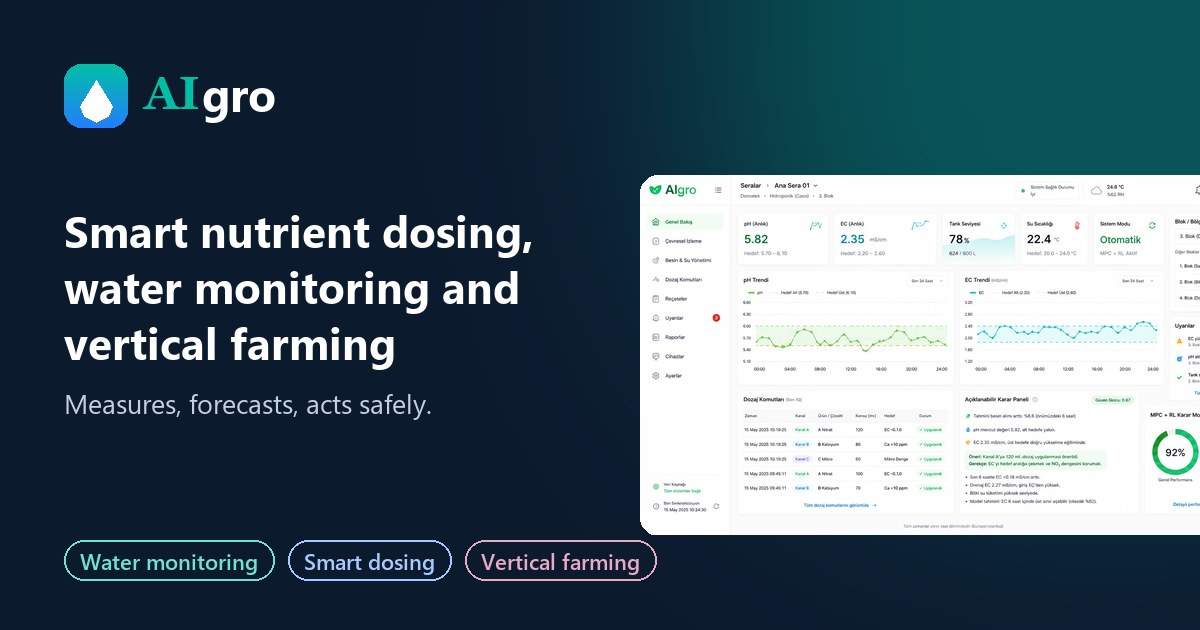
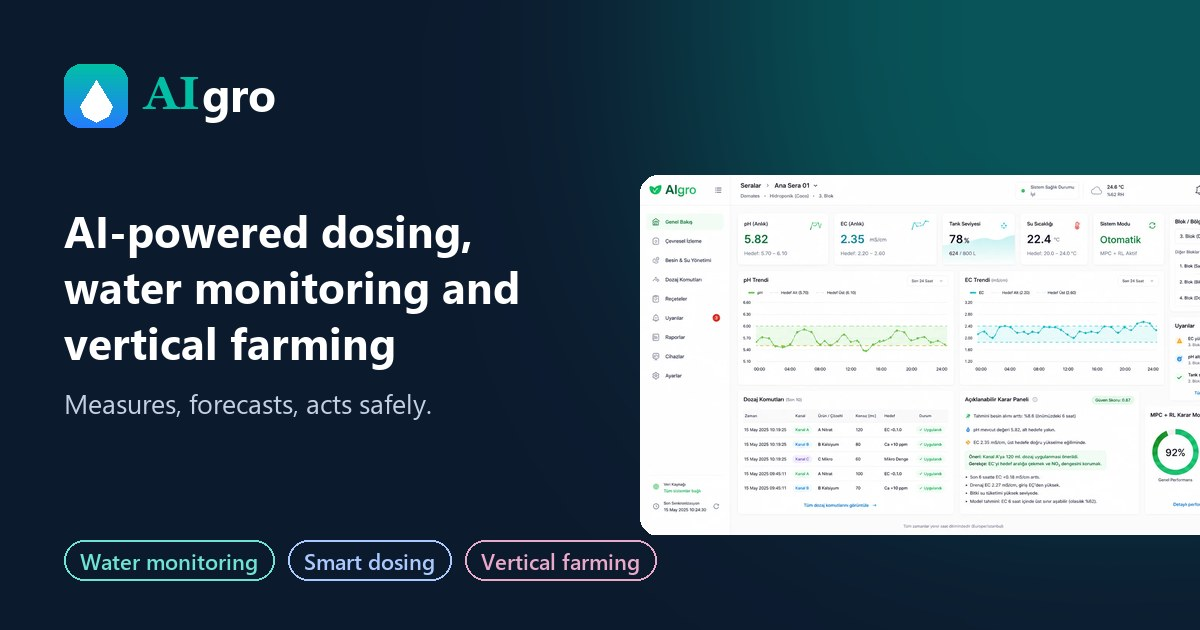
Yapay zekâ ilk ekranda; YZ teknik ayrıntıları sadeleştirildi

Changed region(s): [[0.0308, 0.3317, 0.4625, 0.4222]]

diff --git a/index.html b/index.html
@@ -3,7 +3,7 @@
 <head>
   <meta charset="utf-8">
   <meta name="viewport" content="width=device-width, initial-scale=1">
-  <title>AIgro | Topraksız Tarımda Akıllı Dozajlama, Su Takibi ve Dikey Tarım</title>
+  <title>AIgro | Yapay Zekâ ile Topraksız Tarımda Akıllı Dozajlama, Su Takibi ve Dikey Tarım</title>
   <meta name="description" content="AIgro çözümleri: topraksız serada pH ve EC'yi öngören akıllı besin dozajlama, su takip sistemi ve kafe-restoranlar için dikey tarım modülü.">
   <link rel="canonical" href="https://tarikyil.github.io/aigro-web/">
   <link rel="alternate" hreflang="tr" href="https://tarikyil.github.io/aigro-web/">
@@ -13,7 +13,7 @@
   <meta property="og:type" content="website">
   <meta property="og:locale" content="tr_TR">
   <meta property="og:site_name" content="AIgro">
-  <meta property="og:title" content="AIgro | Topraksız Tarımda Akıllı Dozajlama, Su Takibi ve Dikey Tarım">
+  <meta property="og:title" content="AIgro | Yapay Zekâ ile Topraksız Tarımda Akıllı Dozajlama, Su Takibi ve Dikey Tarım">
   <meta property="og:description" content="AIgro çözümleri: topraksız serada pH ve EC'yi öngören akıllı besin dozajlama, su takip sistemi ve kafe-restoranlar için dikey tarım modülü.">
   <meta property="og:url" content="https://tarikyil.github.io/aigro-web/">
   <meta property="og:image" content="https://tarikyil.github.io/aigro-web/assets/img/og-cover.jpg">
@@ -129,9 +129,9 @@
     </div>
     <div class="container hero-inner">
       <div class="hero-copy">
-        <p class="eyebrow">Topraksız tarım için akıllı altyapı</p>
-        <h1 id="hero-title">Her damla, her doz <em>veriyle</em> yönetilir.</h1>
-        <p class="lead"><span class="aigro"><span class="ai">AI</span>gro</span>; besin dozajlama, su takibi ve dikey tarım sistemlerini kendi geliştirdiğimiz kontrol kartı ve bulut panelinde birleştirir. Ölçer, öngörür, güvenle uygular.</p>
+        <p class="eyebrow">Yapay zekâ destekli topraksız tarım</p>
+        <h1 id="hero-title">Her damla, her doz <em>yapay zekâyla</em> yönetilir.</h1>
+        <p class="lead"><span class="aigro"><span class="ai">AI</span>gro</span>; besin dozajlama, su takibi ve dikey tarım sistemlerini yapay zekâ ile tek altyapıda yönetir. Ölçer, öngörür, güvenle uygular.</p>
         <div class="hero-actions">
           <a class="btn btn-primary" href="#cozumler">Çözümleri keşfedin <svg class="icon icon-arrow" aria-hidden="true" focusable="false"><use href="#i-arrow"/></svg></a>
           <a class="btn btn-ghost-light" href="iletisim.html">Görüşme planlayın</a>
@@ -141,8 +141,8 @@
     <div class="hero-proof">
       <div class="container">
         <ul>
+          <li><svg class="icon" aria-hidden="true" focusable="false"><use href="#i-spark"/></svg><div><strong>Yapay zekâ ile dozaj</strong><span>Patent başvurusu yapıldı</span></div></li>
           <li><svg class="icon" aria-hidden="true" focusable="false"><use href="#i-layers"/></svg><div><strong>Uçtan uca sistem</strong><span>Sensörden panele tek ekip</span></div></li>
-          <li><svg class="icon" aria-hidden="true" focusable="false"><use href="#i-spark"/></svg><div><strong>Yapay zekâ + kontrol</strong><span>Patent başvurusu yapıldı</span></div></li>
           <li><svg class="icon" aria-hidden="true" focusable="false"><use href="#i-flask"/></svg><div><strong>3 kanallı dozaj</strong><span>Besin A · Besin B · pH</span></div></li>
           <li><svg class="icon" aria-hidden="true" focusable="false"><use href="#i-signal"/></svg><div><strong>Wi-Fi veya 4G</strong><span>İnternetsiz arazide SIM ile</span></div></li>
         </ul>
@@ -156,18 +156,18 @@
       <div class="reveal">
         <p class="eyebrow">Teknoloji</p>
         <h2 id="tech-title">Yapay zekâ karar verir, kontrol katmanı güvenle uygular.</h2>
-        <p class="lead"><span class="aigro"><span class="ai">AI</span>gro</span>'nun çekirdeğinde iki katman birlikte çalışır: pekiştirmeli öğrenme en uygun dozu belirler, model öngörülü kontrol bu kararı güvenlik sınırları içinde optimize ederek uygular.</p>
+        <p class="lead"><span class="aigro"><span class="ai">AI</span>gro</span>'nun çekirdeğinde yapay zekâ var: sensör verisinden en uygun dozu belirler, kontrol kartı bu kararı güvenlik sınırları içinde uygular.</p>
         <ol class="tech-chain" aria-label="Karar zinciri">
           <li><svg class="icon" aria-hidden="true" focusable="false"><use href="#i-target"/></svg><span>Sensör verisi</span></li>
           <li><svg class="icon" aria-hidden="true" focusable="false"><use href="#i-spark"/></svg><span>Yapay zekâ kararı</span></li>
-          <li><svg class="icon" aria-hidden="true" focusable="false"><use href="#i-shield"/></svg><span>Öngörülü kontrol</span></li>
+          <li><svg class="icon" aria-hidden="true" focusable="false"><use href="#i-shield"/></svg><span>Güvenlik kontrolü</span></li>
           <li><svg class="icon" aria-hidden="true" focusable="false"><use href="#i-pump"/></svg><span>Güvenli doz</span></li>
         </ol>
       </div>
       <ul class="ip-list reveal reveal-d1" aria-label="Fikri mülkiyet">
         <li class="ip-card">
           <span class="ip-tag"><svg class="icon" aria-hidden="true" focusable="false"><use href="#i-doc"/></svg> Patent başvurusu</span>
-          <strong>Yapay zekâ ve model öngörülü kontrol temelli otomatik dozajlama</strong>
+          <strong>Yapay zekâ destekli otomatik dozajlama</strong>
           <p>Topraksız tarım sistemleri için</p>
         </li>
         <li class="ip-card">

diff --git a/en/index.html b/en/index.html
@@ -3,7 +3,7 @@
 <head>
   <meta charset="utf-8">
   <meta name="viewport" content="width=device-width, initial-scale=1">
-  <title>AIgro | Smart Nutrient Dosing, Water Monitoring and Vertical Farming for Soilless Agriculture</title>
+  <title>AIgro | AI-Powered Smart Nutrient Dosing, Water Monitoring and Vertical Farming for Soilless Agriculture</title>
   <meta name="description" content="AIgro solutions: smart nutrient dosing that forecasts pH and EC in soilless greenhouses, a water monitoring system and a vertical farming module for cafés and restaurants.">
   <link rel="canonical" href="https://tarikyil.github.io/aigro-web/en/">
   <link rel="alternate" hreflang="tr" href="https://tarikyil.github.io/aigro-web/">
@@ -13,7 +13,7 @@
   <meta property="og:type" content="website">
   <meta property="og:locale" content="en_GB">
   <meta property="og:site_name" content="AIgro">
-  <meta property="og:title" content="AIgro | Smart Nutrient Dosing, Water Monitoring and Vertical Farming for Soilless Agriculture">
+  <meta property="og:title" content="AIgro | AI-Powered Smart Nutrient Dosing, Water Monitoring and Vertical Farming for Soilless Agriculture">
   <meta property="og:description" content="AIgro solutions: smart nutrient dosing that forecasts pH and EC in soilless greenhouses, a water monitoring system and a vertical farming module for cafés and restaurants.">
   <meta property="og:url" content="https://tarikyil.github.io/aigro-web/en/">
   <meta property="og:image" content="https://tarikyil.github.io/aigro-web/assets/img/og-cover-en.jpg">
@@ -129,9 +129,9 @@
     </div>
     <div class="container hero-inner">
       <div class="hero-copy">
-        <p class="eyebrow">Smart infrastructure for soilless farming</p>
-        <h1 id="hero-title">Every drop, every dose, <em>driven by data.</em></h1>
-        <p class="lead"><span class="aigro"><span class="ai">AI</span>gro</span> brings nutrient dosing, water monitoring and vertical farming together on our own controller board and cloud dashboard. It measures, forecasts and acts safely.</p>
+        <p class="eyebrow">AI-powered soilless farming</p>
+        <h1 id="hero-title">Every drop, every dose, <em>driven by AI.</em></h1>
+        <p class="lead"><span class="aigro"><span class="ai">AI</span>gro</span> uses AI to run nutrient dosing, water monitoring and vertical farming on one platform. It measures, forecasts and acts safely.</p>
         <div class="hero-actions">
           <a class="btn btn-primary" href="#cozumler">Explore solutions <svg class="icon icon-arrow" aria-hidden="true" focusable="false"><use href="#i-arrow"/></svg></a>
           <a class="btn btn-ghost-light" href="contact.html">Book a meeting</a>
@@ -141,8 +141,8 @@
     <div class="hero-proof">
       <div class="container">
         <ul>
+          <li><svg class="icon" aria-hidden="true" focusable="false"><use href="#i-spark"/></svg><div><strong>AI-driven dosing</strong><span>Patent application filed</span></div></li>
           <li><svg class="icon" aria-hidden="true" focusable="false"><use href="#i-layers"/></svg><div><strong>End-to-end system</strong><span>One team, sensor to dashboard</span></div></li>
-          <li><svg class="icon" aria-hidden="true" focusable="false"><use href="#i-spark"/></svg><div><strong>AI + control</strong><span>Patent application filed</span></div></li>
           <li><svg class="icon" aria-hidden="true" focusable="false"><use href="#i-flask"/></svg><div><strong>3-channel dosing</strong><span>Nutrient A · Nutrient B · pH</span></div></li>
           <li><svg class="icon" aria-hidden="true" focusable="false"><use href="#i-signal"/></svg><div><strong>Wi-Fi or 4G</strong><span>SIM data where there is no internet</span></div></li>
         </ul>
@@ -156,18 +156,18 @@
       <div class="reveal">
         <p class="eyebrow">Technology</p>
         <h2 id="tech-title">AI decides, the control layer applies it safely.</h2>
-        <p class="lead">Two layers work together at the core of <span class="aigro"><span class="ai">AI</span>gro</span>: reinforcement learning determines the optimal dose, and model predictive control optimises and applies that decision within safety limits.</p>
+        <p class="lead">AI sits at the core of <span class="aigro"><span class="ai">AI</span>gro</span>: it determines the optimal dose from sensor data, and the controller board applies that decision within safety limits.</p>
         <ol class="tech-chain" aria-label="Decision chain">
           <li><svg class="icon" aria-hidden="true" focusable="false"><use href="#i-target"/></svg><span>Sensor data</span></li>
           <li><svg class="icon" aria-hidden="true" focusable="false"><use href="#i-spark"/></svg><span>AI decision</span></li>
-          <li><svg class="icon" aria-hidden="true" focusable="false"><use href="#i-shield"/></svg><span>Predictive control</span></li>
+          <li><svg class="icon" aria-hidden="true" focusable="false"><use href="#i-shield"/></svg><span>Safety check</span></li>
           <li><svg class="icon" aria-hidden="true" focusable="false"><use href="#i-pump"/></svg><span>Safe dose</span></li>
         </ol>
       </div>
       <ul class="ip-list reveal reveal-d1" aria-label="Intellectual property">
         <li class="ip-card">
           <span class="ip-tag"><svg class="icon" aria-hidden="true" focusable="false"><use href="#i-doc"/></svg> Patent application</span>
-          <strong>Automatic dosing based on AI and model predictive control</strong>
+          <strong>AI-powered automatic dosing</strong>
           <p>For soilless farming systems</p>
         </li>
         <li class="ip-card">

diff --git a/src/pages/tr/index.html b/src/pages/tr/index.html
@@ -1,4 +1,4 @@
-title: AIgro | Topraksız Tarımda Akıllı Dozajlama, Su Takibi ve Dikey Tarım
+title: AIgro | Yapay Zekâ ile Topraksız Tarımda Akıllı Dozajlama, Su Takibi ve Dikey Tarım
 description: AIgro çözümleri: topraksız serada pH ve EC'yi öngören akıllı besin dozajlama, su takip sistemi ve kafe-restoranlar için dikey tarım modülü.
 header: overlay
 active: index
@@ -13,9 +13,9 @@ og_image: assets/img/og-cover.jpg
     </div>
     <div class="container hero-inner">
       <div class="hero-copy">
-        <p class="eyebrow">Topraksız tarım için akıllı altyapı</p>
-        <h1 id="hero-title">Her damla, her doz <em>veriyle</em> yönetilir.</h1>
-        <p class="lead">AIgro; besin dozajlama, su takibi ve dikey tarım sistemlerini kendi geliştirdiğimiz kontrol kartı ve bulut panelinde birleştirir. Ölçer, öngörür, güvenle uygular.</p>
+        <p class="eyebrow">Yapay zekâ destekli topraksız tarım</p>
+        <h1 id="hero-title">Her damla, her doz <em>yapay zekâyla</em> yönetilir.</h1>
+        <p class="lead">AIgro; besin dozajlama, su takibi ve dikey tarım sistemlerini yapay zekâ ile tek altyapıda yönetir. Ölçer, öngörür, güvenle uygular.</p>
         <div class="hero-actions">
           <a class="btn btn-primary" href="#cozumler">Çözümleri keşfedin [[I arrow icon icon-arrow]]</a>
           <a class="btn btn-ghost-light" href="iletisim.html">Görüşme planlayın</a>
@@ -25,8 +25,8 @@ og_image: assets/img/og-cover.jpg
     <div class="hero-proof">
       <div class="container">
         <ul>
+          <li>[[I spark]]<div><strong>Yapay zekâ ile dozaj</strong><span>Patent başvurusu yapıldı</span></div></li>
           <li>[[I layers]]<div><strong>Uçtan uca sistem</strong><span>Sensörden panele tek ekip</span></div></li>
-          <li>[[I spark]]<div><strong>Yapay zekâ + kontrol</strong><span>Patent başvurusu yapıldı</span></div></li>
           <li>[[I flask]]<div><strong>3 kanallı dozaj</strong><span>Besin A · Besin B · pH</span></div></li>
           <li>[[I signal]]<div><strong>Wi-Fi veya 4G</strong><span>İnternetsiz arazide SIM ile</span></div></li>
         </ul>
@@ -40,18 +40,18 @@ og_image: assets/img/og-cover.jpg
       <div class="reveal">
         <p class="eyebrow">Teknoloji</p>
         <h2 id="tech-title">Yapay zekâ karar verir, kontrol katmanı güvenle uygular.</h2>
-        <p class="lead">AIgro'nun çekirdeğinde iki katman birlikte çalışır: pekiştirmeli öğrenme en uygun dozu belirler, model öngörülü kontrol bu kararı güvenlik sınırları içinde optimize ederek uygular.</p>
+        <p class="lead">AIgro'nun çekirdeğinde yapay zekâ var: sensör verisinden en uygun dozu belirler, kontrol kartı bu kararı güvenlik sınırları içinde uygular.</p>
         <ol class="tech-chain" aria-label="Karar zinciri">
           <li>[[I target]]<span>Sensör verisi</span></li>
           <li>[[I spark]]<span>Yapay zekâ kararı</span></li>
-          <li>[[I shield]]<span>Öngörülü kontrol</span></li>
+          <li>[[I shield]]<span>Güvenlik kontrolü</span></li>
           <li>[[I pump]]<span>Güvenli doz</span></li>
         </ol>
       </div>
       <ul class="ip-list reveal reveal-d1" aria-label="Fikri mülkiyet">
         <li class="ip-card">
           <span class="ip-tag">[[I doc]] Patent başvurusu</span>
-          <strong>Yapay zekâ ve model öngörülü kontrol temelli otomatik dozajlama</strong>
+          <strong>Yapay zekâ destekli otomatik dozajlama</strong>
           <p>Topraksız tarım sistemleri için</p>
         </li>
         <li class="ip-card">

diff --git a/src/pages/en/index.html b/src/pages/en/index.html
@@ -1,4 +1,4 @@
-title: AIgro | Smart Nutrient Dosing, Water Monitoring and Vertical Farming for Soilless Agriculture
+title: AIgro | AI-Powered Smart Nutrient Dosing, Water Monitoring and Vertical Farming for Soilless Agriculture
 description: AIgro solutions: smart nutrient dosing that forecasts pH and EC in soilless greenhouses, a water monitoring system and a vertical farming module for cafés and restaurants.
 header: overlay
 og_image: assets/img/og-cover-en.jpg
@@ -13,9 +13,9 @@ active: index
     </div>
     <div class="container hero-inner">
       <div class="hero-copy">
-        <p class="eyebrow">Smart infrastructure for soilless farming</p>
-        <h1 id="hero-title">Every drop, every dose, <em>driven by data.</em></h1>
-        <p class="lead">AIgro brings nutrient dosing, water monitoring and vertical farming together on our own controller board and cloud dashboard. It measures, forecasts and acts safely.</p>
+        <p class="eyebrow">AI-powered soilless farming</p>
+        <h1 id="hero-title">Every drop, every dose, <em>driven by AI.</em></h1>
+        <p class="lead">AIgro uses AI to run nutrient dosing, water monitoring and vertical farming on one platform. It measures, forecasts and acts safely.</p>
         <div class="hero-actions">
           <a class="btn btn-primary" href="#cozumler">Explore solutions [[I arrow icon icon-arrow]]</a>
           <a class="btn btn-ghost-light" href="contact.html">Book a meeting</a>
@@ -25,8 +25,8 @@ active: index
     <div class="hero-proof">
       <div class="container">
         <ul>
+          <li>[[I spark]]<div><strong>AI-driven dosing</strong><span>Patent application filed</span></div></li>
           <li>[[I layers]]<div><strong>End-to-end system</strong><span>One team, sensor to dashboard</span></div></li>
-          <li>[[I spark]]<div><strong>AI + control</strong><span>Patent application filed</span></div></li>
           <li>[[I flask]]<div><strong>3-channel dosing</strong><span>Nutrient A · Nutrient B · pH</span></div></li>
           <li>[[I signal]]<div><strong>Wi-Fi or 4G</strong><span>SIM data where there is no internet</span></div></li>
         </ul>
@@ -40,18 +40,18 @@ active: index
       <div class="reveal">
         <p class="eyebrow">Technology</p>
         <h2 id="tech-title">AI decides, the control layer applies it safely.</h2>
-        <p class="lead">Two layers work together at the core of AIgro: reinforcement learning determines the optimal dose, and model predictive control optimises and applies that decision within safety limits.</p>
+        <p class="lead">AI sits at the core of AIgro: it determines the optimal dose from sensor data, and the controller board applies that decision within safety limits.</p>
         <ol class="tech-chain" aria-label="Decision chain">
           <li>[[I target]]<span>Sensor data</span></li>
           <li>[[I spark]]<span>AI decision</span></li>
-          <li>[[I shield]]<span>Predictive control</span></li>
+          <li>[[I shield]]<span>Safety check</span></li>
           <li>[[I pump]]<span>Safe dose</span></li>
         </ol>
       </div>
       <ul class="ip-list reveal reveal-d1" aria-label="Intellectual property">
         <li class="ip-card">
           <span class="ip-tag">[[I doc]] Patent application</span>
-          <strong>Automatic dosing based on AI and model predictive control</strong>
+          <strong>AI-powered automatic dosing</strong>
           <p>For soilless farming systems</p>
         </li>
         <li class="ip-card">

diff --git a/akilli-dozajlama.html b/akilli-dozajlama.html
@@ -211,7 +211,7 @@
       <div class="section-head reveal">
         <p class="eyebrow">Güvenli otonomi</p>
         <h2 id="safety-title">Yapay zekâ önerir, güvenlik katmanı karar verir.</h2>
-        <p class="lead">Pekiştirmeli öğrenme dozu önerir, model öngörülü kontrol bu kararı güvenlik sınırları içinde optimize eder. Yapay zekâ pompaya doğrudan dokunmaz; her komut kontrol kartındaki bağımsız güvenlik katmanından geçer.</p>
+        <p class="lead">Yapay zekâ dozu önerir, kontrol kartı güvenlik sınırları içinde uygular. Yapay zekâ pompaya doğrudan dokunmaz; her komut bağımsız güvenlik katmanından geçer.</p>
       </div>
       <div class="features">
         <article class="feature reveal"><div class="ic"><svg class="icon" aria-hidden="true" focusable="false"><use href="#i-shield"/></svg></div><h3>Güvenlik zarfı</h3><p>Komutlar kartta tanımlı sınırlara göre denetlenir; sınırı aşan komut uygulanmaz.</p></article>

diff --git a/en/smart-dosing.html b/en/smart-dosing.html
@@ -208,7 +208,7 @@
       <div class="section-head reveal">
         <p class="eyebrow">Safe autonomy</p>
         <h2 id="safety-title">AI recommends, the safety layer decides.</h2>
-        <p class="lead">Reinforcement learning recommends the dose and model predictive control optimises it within safety limits. The AI never drives the pump directly; every command passes through an independent safety layer on the controller board.</p>
+        <p class="lead">AI recommends the dose and the controller board applies it within safety limits. The AI never drives the pump directly; every command passes through an independent safety layer.</p>
       </div>
       <div class="features">
         <article class="feature reveal"><div class="ic"><svg class="icon" aria-hidden="true" focusable="false"><use href="#i-shield"/></svg></div><h3>Safety envelope</h3><p>Commands are checked against limits defined on the board; a command that exceeds them is not executed.</p></article>

diff --git a/src/pages/tr/akilli-dozajlama.html b/src/pages/tr/akilli-dozajlama.html
@@ -95,7 +95,7 @@ og_image: assets/img/og-cover.jpg
       <div class="section-head reveal">
         <p class="eyebrow">Güvenli otonomi</p>
         <h2 id="safety-title">Yapay zekâ önerir, güvenlik katmanı karar verir.</h2>
-        <p class="lead">Pekiştirmeli öğrenme dozu önerir, model öngörülü kontrol bu kararı güvenlik sınırları içinde optimize eder. Yapay zekâ pompaya doğrudan dokunmaz; her komut kontrol kartındaki bağımsız güvenlik katmanından geçer.</p>
+        <p class="lead">Yapay zekâ dozu önerir, kontrol kartı güvenlik sınırları içinde uygular. Yapay zekâ pompaya doğrudan dokunmaz; her komut bağımsız güvenlik katmanından geçer.</p>
       </div>
       <div class="features">
         <article class="feature reveal"><div class="ic">[[I shield]]</div><h3>Güvenlik zarfı</h3><p>Komutlar kartta tanımlı sınırlara göre denetlenir; sınırı aşan komut uygulanmaz.</p></article>

diff --git a/src/pages/en/smart-dosing.html b/src/pages/en/smart-dosing.html
@@ -92,7 +92,7 @@ active: dozaj
       <div class="section-head reveal">
         <p class="eyebrow">Safe autonomy</p>
         <h2 id="safety-title">AI recommends, the safety layer decides.</h2>
-        <p class="lead">Reinforcement learning recommends the dose and model predictive control optimises it within safety limits. The AI never drives the pump directly; every command passes through an independent safety layer on the controller board.</p>
+        <p class="lead">AI recommends the dose and the controller board applies it within safety limits. The AI never drives the pump directly; every command passes through an independent safety layer.</p>
       </div>
       <div class="features">
         <article class="feature reveal"><div class="ic">[[I shield]]</div><h3>Safety envelope</h3><p>Commands are checked against limits defined on the board; a command that exceeds them is not executed.</p></article>

diff --git a/tools/og_cards.py b/tools/og_cards.py
@@ -60,7 +60,7 @@ def card(lines: list[str], tagline: str, chips: list[str], out: Path) -> None:
 
 
 if __name__ == "__main__":
-    card(["Topraksız tarımda akıllı", "dozajlama, su takibi", "ve dikey tarım"], "Ölçer, öngörür, güvenle uygular.",
+    card(["Yapay zekâ ile akıllı", "dozajlama, su takibi", "ve dikey tarım"], "Ölçer, öngörür, güvenle uygular.",
          ["Su takibi", "Akıllı dozajlama", "Dikey tarım"], IMG / "og-cover.jpg")
-    card(["Smart nutrient dosing,", "water monitoring and", "vertical farming"], "Measures, forecasts, acts safely.",
+    card(["AI-powered dosing,", "water monitoring and", "vertical farming"], "Measures, forecasts, acts safely.",
          ["Water monitoring", "Smart dosing", "Vertical farming"], IMG / "og-cover-en.jpg")
